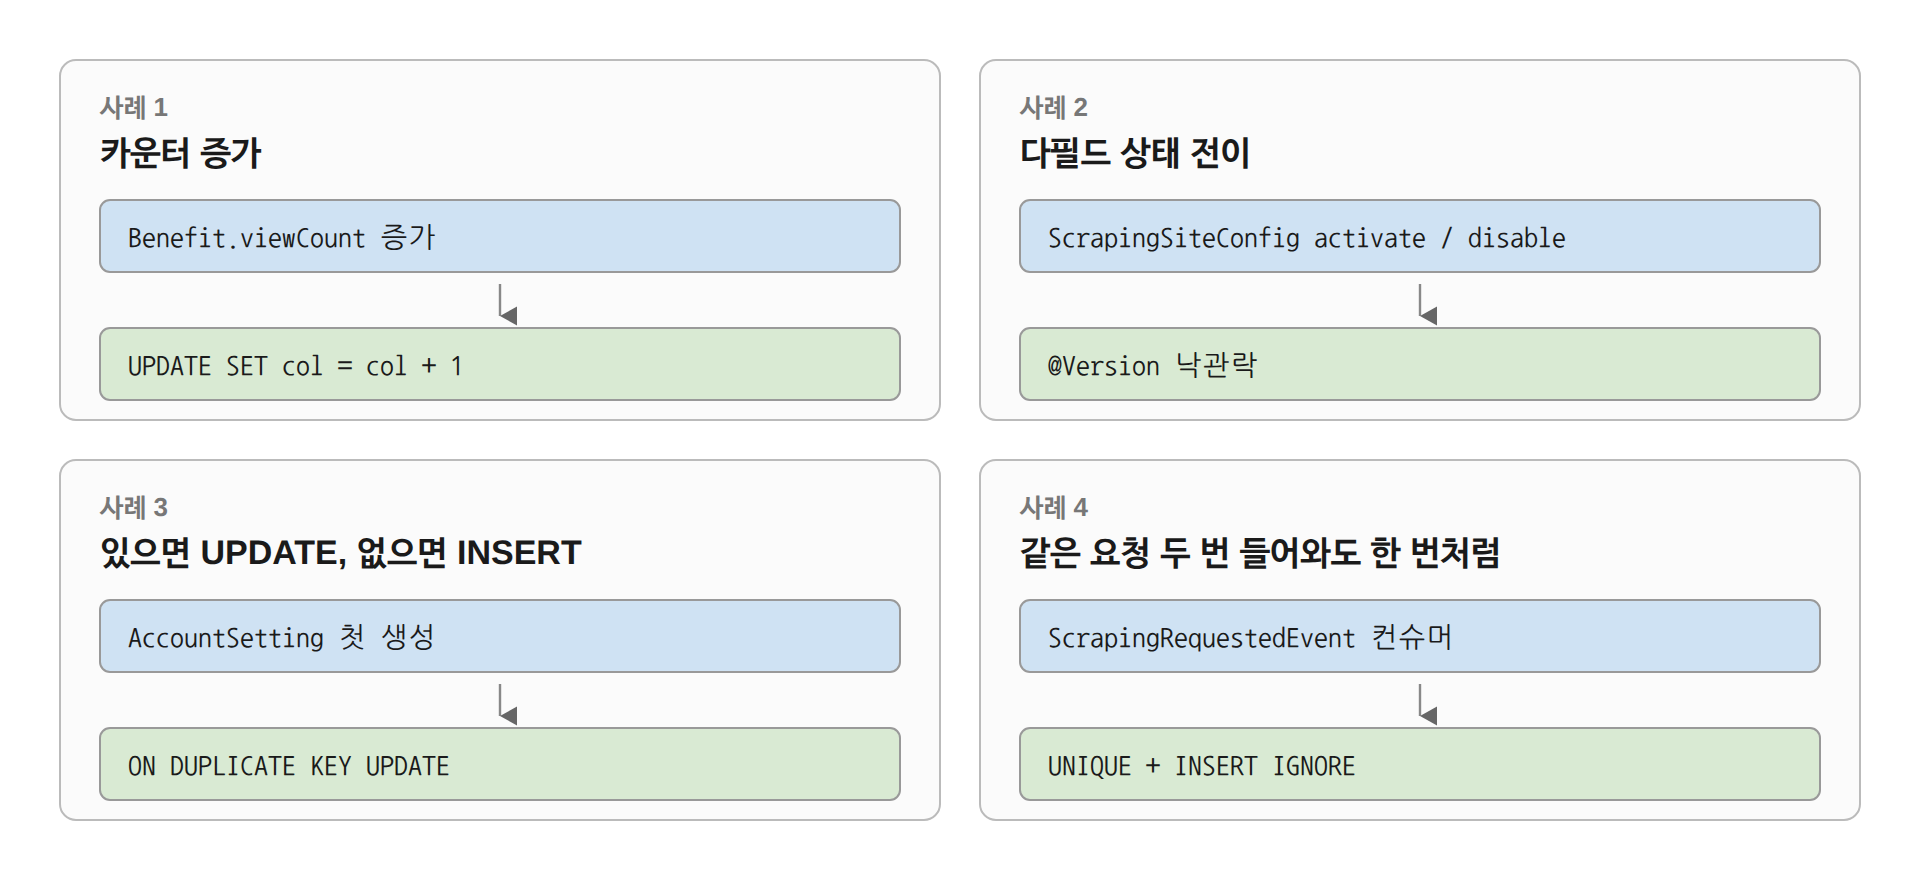
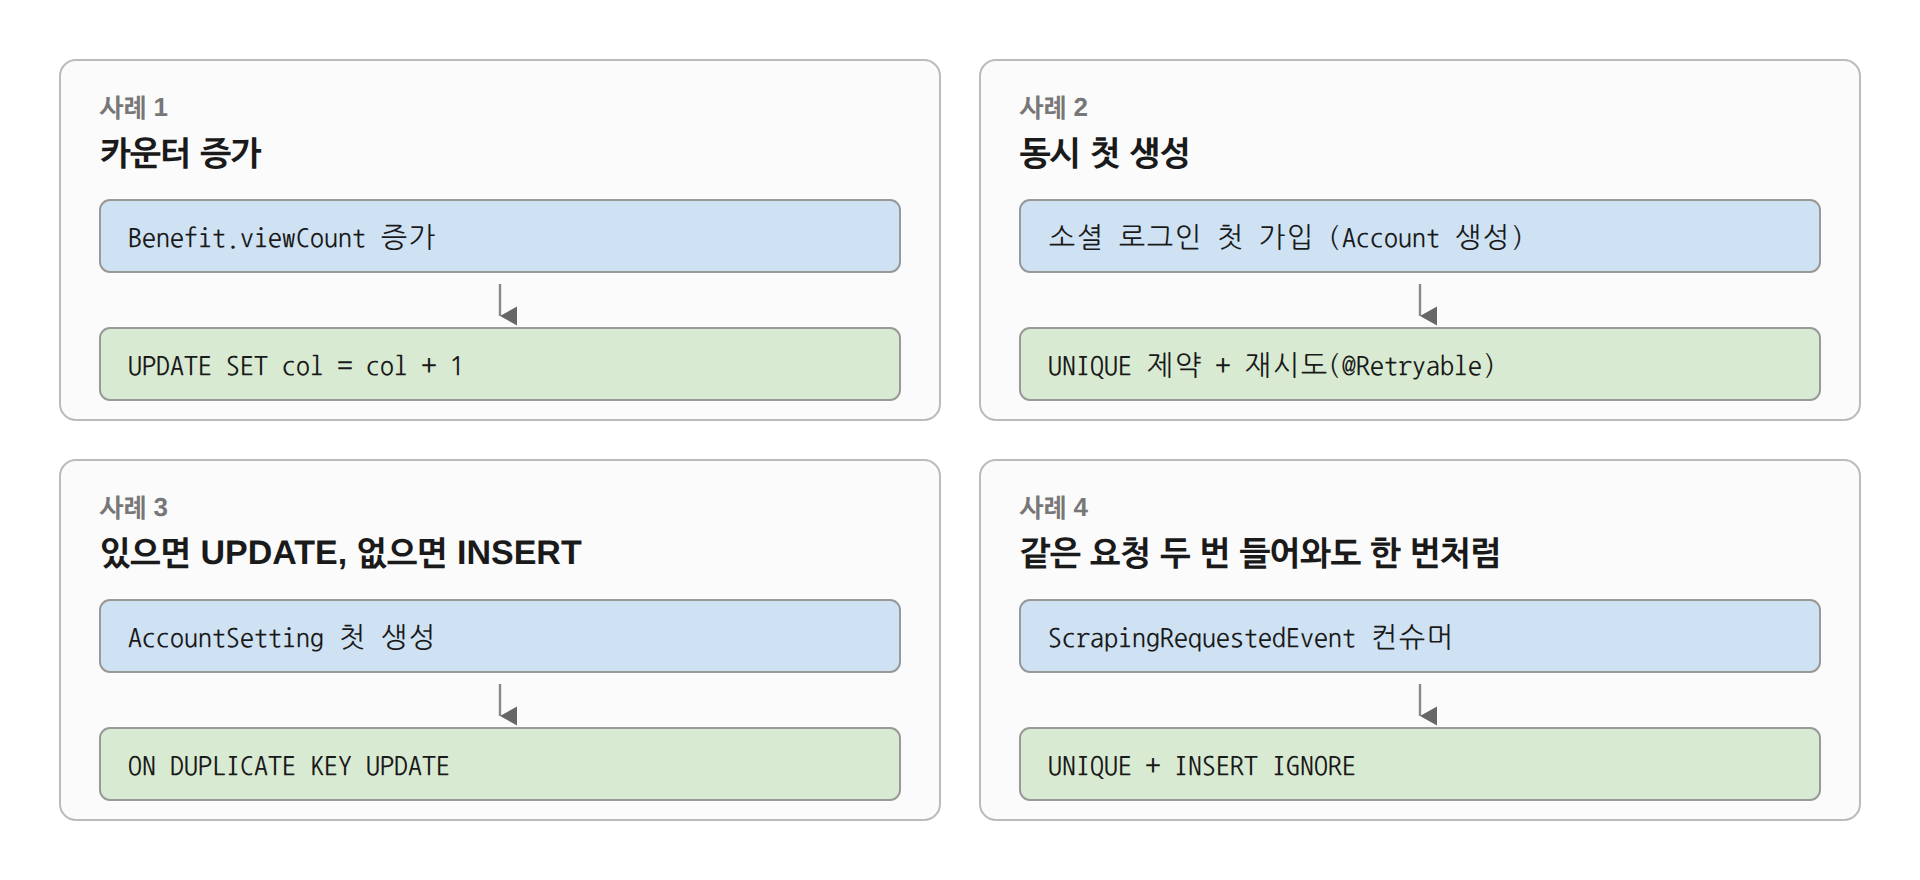
sync origin with local

Changed region(s): [[0.5312, 0.2455, 0.8125, 0.3068], [0.5312, 0.3989, 0.7812, 0.4295], [0.5312, 0.1534, 0.6562, 0.2148]]

diff --git a/content/posts/6.md b/content/posts/6.md
@@ -2,16 +2,16 @@
 title: "트랜잭션 경계를 어디에 둘까 - MySQL 격리수준을 낮추고 정합성은 어플리케이션에서 챙긴 기록"
 date: 2026-05-26
 draft: false
-tags: ["MySQL", "Concurrency", "Isolation Level", "Optimistic Lock", "Spring Boot", "JPA", "Spring Modulith"]
+tags: ["MySQL", "Concurrency", "Isolation Level", "Unique Constraint", "Retry", "Spring Boot", "JPA", "Spring Modulith"]
 categories: ["Backend"]
-summary: "MySQL 격리수준을 REPEATABLE READ 에서 READ COMMITTED 로 한 단계 낮추는 결정과, 그 과정에서 식별한 동시 수정 네 가지 사례(카운터 증가, 상태 전이, 있으면 UPDATE 없으면 INSERT, 같은 이벤트가 두 번 도착하는 경우)를 어플리케이션 코드에서 어떻게 보호했는지 정리한 글입니다."
+summary: "MySQL 격리수준을 REPEATABLE READ 에서 READ COMMITTED 로 한 단계 낮추는 결정과, 그 과정에서 식별한 동시 수정 네 가지 사례(카운터 증가, 동시 첫 생성, 있으면 UPDATE 없으면 INSERT, 같은 이벤트가 두 번 도착하는 경우)를 어플리케이션 코드에서 어떻게 보호했는지 정리한 글입니다."
 ---
 
 ## 들어가며
 
 하나의 작업이 원자적으로 끝나는 경계를 어디에 둘 것인가. 이 질문을 들고 코드베이스를 한 바퀴 돈 기록입니다.
 
-MySQL 의 기본 격리수준인 REPEATABLE READ 에서 READ COMMITTED 로 한 단계 낮추기로 한 판단과, 그 과정에서 식별한 동시 수정 네 가지 사례(카운터 증가, 상태 전이, 있으면 UPDATE 없으면 INSERT, 같은 이벤트가 두 번 도착하는 경우)를 어플리케이션 코드에서 어떻게 보호했는지 정리했습니다.
+MySQL 의 기본 격리수준인 REPEATABLE READ 에서 READ COMMITTED 로 한 단계 낮추기로 한 판단과, 그 과정에서 식별한 동시 수정 네 가지 사례(카운터 증가, 동시 첫 생성, 있으면 UPDATE 없으면 INSERT, 같은 이벤트가 두 번 도착하는 경우)를 어플리케이션 코드에서 어떻게 보호했는지 정리했습니다.
 
 스프링을 처음 써 보면 누구나 한 번쯤 닿는 결론이 있습니다. "메서드에 `@Transactional` 만 붙이면 동시성 문제는 알아서 해결된다." 나도 그랬는데, 이번 작업을 하면서 그 결론이 어디까지 맞는지를 직접 따라가 본 기록이 이 글입니다.
 
@@ -123,11 +123,11 @@ RR 에서 RC 로 내리면 처리량이 더 나온다는 얘기는 흔히 들리
 | 사례 | 대표 케이스 | 적용한 보호 |
 |---|---|---|
 | 1. 카운터 증가 | `Benefit.viewCount` 증가 | 단일 SQL `UPDATE SET col = col + 1` |
-| 2. 다필드 상태 전이 | `ScrapingSiteConfig` activate / disable | `@Version` 낙관락 |
+| 2. 동시 첫 생성 | 소셜 로그인 첫 가입 (`Account` 생성) | 유니크 제약 + 재시도 (`@Retryable`) |
 | 3. 있으면 UPDATE, 없으면 INSERT | `AccountSetting` 첫 생성 | 네이티브 `INSERT ... ON DUPLICATE KEY UPDATE` |
 | 4. 같은 요청이 두 번 들어와도 한 번처럼 | `ScrapingRequestedEvent` 컨슈머 | `(도메인키, 분단위 버킷)` UNIQUE + `INSERT IGNORE` |
 
-분류를 억지로 묶은 건 아니었습니다. 데이터를 어떻게 바꾸느냐 자체가 케이스마다 다르기 때문에 자연스럽게 네 갈래로 갈렸습니다. 1번은 한 컬럼을 산술적으로 증가시키는 단순한 형태, 2번은 여러 컬럼이 한 덩어리로 바뀌는 상태 전이, 3번은 row 자체가 있을 수도 없을 수도 있는 경우, 4번은 같은 이벤트가 두 번 도착할 수 있는 경우입니다.
+분류를 억지로 묶은 건 아니었습니다. 데이터를 어떻게 바꾸느냐 자체가 케이스마다 다르기 때문에 자연스럽게 네 갈래로 갈렸습니다. 1번은 한 컬럼을 산술적으로 증가시키는 단순한 형태, 2번은 아직 없는 row 를 여럿이 동시에 처음 만들려다 부딪히는 경우, 3번은 그 row 가 이미 있으면 고치고 없으면 만드는 분기가 필요한 경우, 4번은 같은 이벤트가 두 번 도착할 수 있는 경우입니다.
 
 다음 4개 장에서 각 사례가 왜 그 보호를 골랐고, 그 보호가 정확히 어떻게 동작하는지 풀어 보겠습니다.
 
@@ -177,57 +177,58 @@ int incrementViewCount(@Param("id") long id);
 
 ---
 
-## 6. 사례 2. `@Version` 낙관락으로 상태 전이 충돌 잡기
+## 6. 사례 2. 유니크 제약 + 재시도로 동시 첫 가입을 한 계정으로 모으기
 
-**대표 케이스**: `ScrapingSiteConfig` 의 activate / disable.
+**대표 케이스**: 소셜 로그인 첫 가입.
 
-`ScrapingSiteConfig` 는 사이트별 스크래핑 설정을 담은 엔티티입니다. "이 사이트를 지금 스크래핑 활성화한다" 같은 동작이 들어가는데, 이게 단순히 boolean 하나를 뒤집는 게 아닙니다. status, activatedAt, deactivatedAt, updatedBy 같은 컬럼이 같이 바뀌고, 그것들 사이에 정합성 규칙도 있습니다. status 가 ACTIVE 인데 activatedAt 이 null 이면 안 된다는 식입니다.
-
-여기에 단일 SQL UPDATE 를 쓰는 건 어색합니다. 여러 컬럼을 한 SQL 로 묶을 수는 있지만, SQL 문자열 안에 비즈니스 규칙이 들어가 버립니다. 그리고 여기는 사용자 트래픽이 무더기로 같은 row 를 동시에 만지는 케이스가 아닙니다. 두 운영자가 거의 동시에 같은 사이트 설정을 만지는 경우입니다. 자주 일어나는 충돌이 아니라, **일어나면 명시적으로 알려야 하는 충돌** 입니다.
-
-그래서 여기에는 `@Version` 낙관락을 걸어 두기로 했습니다.
+카카오·네이버로 *처음* 로그인하는 사용자는 그 순간 계정이 만들어집니다. 코드의 골격은 "이 소셜 식별자로 된 계정이 있으면 그걸 쓰고, 없으면 새로 만든다" 입니다.
 
 ```java
-@Entity
-public class ScrapingSiteConfig {
-  @Id
-  Long id;
+Account account =
+    findExistingAccount(profile)                  // (provider, providerUserId) 로 조회
+        .orElseGet(() -> createAccount(profile));  // 없으면 생성
+```
 
-  @Version
-  Long version;
+평소에는 문제가 없습니다. 그런데 같은 사용자가 첫 로그인 버튼을 연타하거나 앱이 토큰을 거의 동시에 두 번 요청하는 식으로, **같은 소셜 계정의 최초 로그인이 겹쳐 들어오면** 1장의 viewCount 와 같은 모양의 경쟁이 생깁니다.
 
-  // status, activatedAt, ...
+- T1: `findExistingAccount` → 없음
+- T2: `findExistingAccount` → 없음
+- T1: `createAccount` → INSERT 성공
+- T2: `createAccount` → INSERT (UNIQUE 제약 충돌)
+
+둘 다 "계정 없음" 을 보고 둘 다 만들려고 듭니다. 여기서 막아 주는 건 격리수준이 아니라 **DB 의 UNIQUE 제약** 입니다. 소셜 커넥션 테이블에 `(provider, providerUserId)` UNIQUE 가 걸려 있어서, 늦게 커밋하는 쪽의 INSERT 가 `DataIntegrityViolationException` 으로 터집니다. 제약이 없었다면 같은 사용자의 계정이 두 개 생기는 더 나쁜 사고가 났을 겁니다.
+
+### 왜 잠금이 아니라 제약인가
+
+1장에서 꼽은 네 선택지 중 잠금 두 개는 여기선 쓸 수가 없습니다. 잠글 row 가 아직 없으니까요.
+
+- **비관락 (`SELECT ... FOR UPDATE`)**: 이미 있는 row 에 거는 락입니다. 첫 가입은 그 row 를 지금 막 만들려는 참이라 잠글 대상이 없습니다.
+- **낙관락 (`@Version`)**: 기존 row 의 version 을 비교하는 방식인데, 이것도 비교할 기존 row 가 있어야 합니다. 첫 생성에는 그 row 가 아직 없습니다.
+
+동시에 같은 걸 새로 만드는 걸 막아 주는 건 결국 UNIQUE 제약뿐입니다. 그래서 잠금을 거는 대신, 제약 위반이 나면 그걸 받아서 재시도로 한 계정으로 모이게 했습니다. 충돌이 나면 늦은 쪽은 다시 조회해서 이긴 쪽이 만든 계정을 그대로 쓰면 됩니다.
+
+### 재시도는 트랜잭션 밖에서 돌아야 한다
+
+문제는 그 재시도를 어디에 두느냐입니다. INSERT 가 UNIQUE 위반으로 터지는 순간 Hibernate 영속성 컨텍스트가 깨지기 때문에, **같은 트랜잭션 안에서 catch 해 다시 조회하는 건 안 됩니다.** (이 함정은 7장에서 더 자세히 다룹니다.) 재시도는 트랜잭션을 새로 열고 그 안에서 다시 조회해야 합니다.
+
+이 프로젝트는 Spring 의 `@Retryable` 을 트랜잭션 경계 **바깥**에 두는 방식으로 풀었습니다.
+
+```java
+@Retryable(includes = DataIntegrityViolationException.class, maxRetries = 3)
+@Transactional
+public AuthTokenPair complete(SocialProfile profile) {
+  Account account =
+      findExistingAccount(profile)
+          .orElseGet(() -> createAccount(profile));
+  // ... 토큰 발급·저장까지 같은 트랜잭션
 }
 ```
 
-JPA 가 자동으로 해 주는 일은 이렇습니다. 엔티티가 수정되어 flush 될 때 UPDATE 쿼리에 `WHERE id = ? AND version = ?` 조건이 들어갑니다. 그리고 SET 절에 `version = version + 1` 도 같이 들어갑니다.
+Spring 의 기본 advisor 순서에서 재시도 어드바이스가 트랜잭션 어드바이스보다 바깥에 있어서, 재시도는 **매번 새 트랜잭션** 으로 시작합니다. 첫 시도가 UNIQUE 충돌로 롤백되면, 두 번째 시도는 새 트랜잭션에서 `findExistingAccount` 를 다시 부르고 이번엔 경쟁에서 이긴 쪽이 커밋해 둔 계정을 찾아 정상 로그인 경로로 빠집니다. 깨진 세션을 어떻게든 되살리려 하지 말고, 트랜잭션을 통째로 새로 여는 겁니다.
 
-두 운영자가 동시에 같은 config 를 만지면 어떻게 되는지 보겠습니다.
+그리고 외부 OAuth 프로필 조회(카카오·네이버 호출)는 이 트랜잭션 **밖에서 한 번만** 합니다. 느린 외부 HTTP 가 DB 커넥션을 쥔 채 재시도 구간까지 끌고 가면 안 되니까, 외부 호출과 DB 작업을 아예 떼어 놨습니다. 이 분리가 부하 상황에서 왜 중요한지는 [“가상 스레드는 마음껏 만들어도 된다”]({{< ref "5.md" >}}) 글에서 따로 다룹니다.
 
-- T1: 조회. version = 5, 모든 필드 들고 옴
-- T2: 조회. version = 5, 모든 필드 들고 옴
-- T1: `activate()` → `UPDATE ... SET status='ACTIVE', version=6 WHERE id=? AND version=5` → 1 row 영향
-- T2: `disable()` → `UPDATE ... SET status='DISABLED', version=6 WHERE id=? AND version=5` → 0 row 영향
-
-T2 의 UPDATE 는 0 row 영향입니다. 이미 version 이 6 으로 올라가 있어서 WHERE 절이 안 맞기 때문입니다. JPA 는 이걸 감지하고 `OptimisticLockingFailureException` 을 던집니다. 핵심은 **충돌이 일어났다는 사실이 사라지지 않고 위로 올라온다** 는 점입니다.
-
-이걸 어디서 잡느냐는 정책의 문제입니다. 이 프로젝트는 두 갈래로 나눠 뒀습니다.
-
-- **자동 파이프라인이 충돌한 경우**: service 안에서 짧게 재시도. 다시 조회해서 최신 version 으로 한 번 더 시도하고, 그래도 충돌하면 위로 던집니다. 자동 파이프라인은 동일 작업을 반복해도 무방한 경우가 많아 이게 가능합니다.
-- **운영자가 UI 에서 충돌한 경우**: 재시도하지 않습니다. "다른 운영자가 동시에 같은 설정을 변경했습니다. 화면을 새로고침하고 다시 시도해 주세요" 같은 친화적 에러로 응답합니다. 누구의 변경이 묻혔는지를 운영자에게 알려 줘야 하기 때문입니다.
-
-이런 상황에서 한쪽 변경분이 통째로 사라지면 그건 곧 운영 사고가 됩니다. 한 운영자는 활성화했다고 알고 있는데 실제로는 비활성화 상태로 남아 있는 식이니까요. `@Version` 은 그 사고를 막아 줍니다.
-
-### 무중단 배포와의 호환
-
-`@Version` 컬럼을 추가하는 Flyway 마이그레이션은 이렇게 갑니다.
-
-```sql
-ALTER TABLE scraping_site_config
-  ADD COLUMN version BIGINT NOT NULL DEFAULT 0;
-```
-
-`DEFAULT 0` 이 있으니, 이전 버전 어플리케이션이 version 컬럼을 모른 채 UPDATE 해도 (즉 SET 절에 version 이 들어가지 않아도) DB 가 알아서 0 으로 두고 넘어갑니다. 무중단 배포 중에 신구 버전이 같은 DB 를 동시에 쓰는 수 초~수십 초 동안에도 양쪽 다 정상 동작합니다. 한쪽이 깨지지 않습니다. 무중단 배포에서 컬럼 추가/제거를 안전하게 가져가는 핵심 패턴이 이겁니다.
+결이 사례 1 과 같습니다. 충돌이 났는지는 DB 가 UNIQUE 제약으로 판정하게 두고, 어플리케이션은 그 충돌을 어떻게 수습할지(다시 조회해서 이긴 계정 쓰기)만 정합니다. UNIQUE 제약은 RR 이든 RC 이든 똑같이 동작하니, 격리수준을 낮춰도 이 보호는 그대로입니다.
 
 <br/>
 
@@ -403,7 +404,7 @@ public void onScrapingRequested(ScrapingRequestedEvent event) {
 
 ### 무중단 배포 중의 정합성
 
-무중단 배포가 진행되는 동안에는 한쪽 인스턴스가 RR, 다른 한쪽이 RC 로 같이 도는 수 초~수십 초의 시간이 있습니다. 그 시간에도 정합성이 깨지지 않게 보장해 주는 게 네 가지 사례 보강이었습니다. 단일 SQL UPDATE 도, `@Version` 낙관락도, 네이티브 `ON DUPLICATE KEY UPDATE` 도, 멱등키 INSERT IGNORE 도, 어느 격리수준에서나 똑같이 동작합니다. 그 시간은 곧 끝나고, 다음부터는 모두 RC 입니다.
+무중단 배포가 진행되는 동안에는 한쪽 인스턴스가 RR, 다른 한쪽이 RC 로 같이 도는 수 초~수십 초의 시간이 있습니다. 그 시간에도 정합성이 깨지지 않게 보장해 주는 게 네 가지 사례 보강이었습니다. 단일 SQL UPDATE 도, 유니크 제약 + 재시도도, 네이티브 `ON DUPLICATE KEY UPDATE` 도, 멱등키 INSERT IGNORE 도, 어느 격리수준에서나 똑같이 동작합니다. 그 시간은 곧 끝나고, 다음부터는 모두 RC 입니다.
 
 순서를 한 번 더 정리하면 이렇습니다.
 
@@ -435,7 +436,7 @@ public void onScrapingRequested(ScrapingRequestedEvent event) {
 마지막으로 처음에 던진 질문, "하나의 작업이 원자적으로 끝나는 경계를 어디에 둘 것인가" 로 돌아가 보겠습니다. 막상 코드를 한 바퀴 돌아 보니, 케이스마다 답이 다 달랐습니다.
 
 - 카운터 증가의 경계는 **단일 SQL 한 줄**.
-- 상태 전이의 경계는 **`@Version` 한 컬럼**.
+- 동시 첫 가입의 경계는 **유니크 제약 + 트랜잭션 밖 재시도**.
 - 있으면 UPDATE, 없으면 INSERT 의 경계는 **DB 의 `ON DUPLICATE KEY UPDATE` 구문**.
 - 같은 이벤트가 두 번 들어오는 경우의 경계는 **분단위 멱등 테이블**.
 
